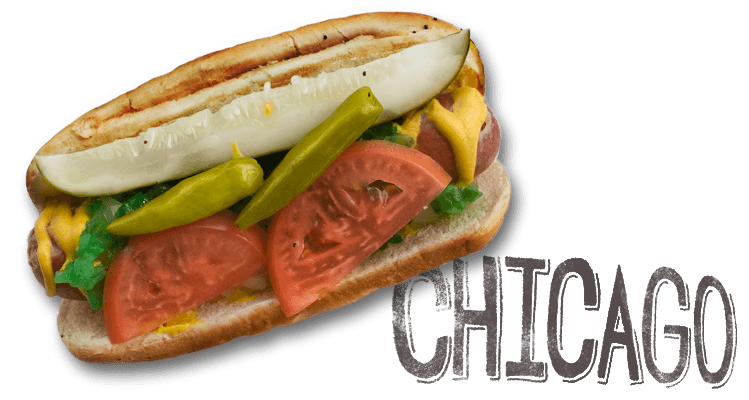
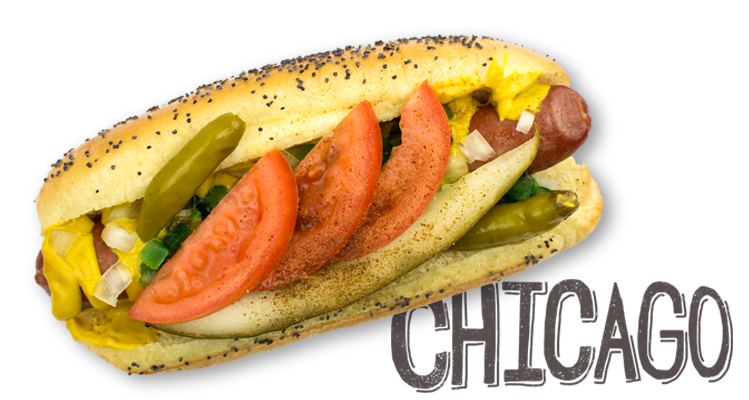
updated sausage slider images with new photos

diff --git a/index.html b/index.html
@@ -49,15 +49,12 @@
           <div class="row">
             <div id="sausage-slider" class="large-8 medium-8 columns large-push-4 pull-up">
               <ul data-orbit data-options="timer_speed: 5000; pause_on_hover: false; navigation_arrows: false; animation:slide; bullets:false; slide_number:false; circular: false; timer: true;" class="sausage-orbit">
-                <li><img src="images/large_andoullie.png" alt="Name"></li>
+                <li><img src="images/large_andouille.png" alt="Name"></li>
                 <li><img src="images/large_brat.png" alt="Name"></li>
                 <li><img src="images/large_chicago.png" alt="Name"></li>
-                <li><img src="images/large_chicken.png" alt="Name"></li>
-                <li><img src="images/large_chili.png" alt="Name"></li>
-                <li><img src="images/large_chorizo.png" alt="Name"></li>
-                <li><img src="images/large_noDog.png" alt="Name"></li>
-                <li><img src="images/large_polish.png" alt="Name"></li>
-                <li><img src="images/large_portuguese.png" alt="Name"></li>
+                <li><img src="images/large_chilidog.png" alt="Name"></li>
+                <li><img src="images/large_hanksfrank.png" alt="Name"></li>
+                <li><img src="images/large_hawaiian.png" alt="Name"></li>
               </ul>
             </div>
             <div id="intro" class="large-4 medium-12 columns large-pull-8">
